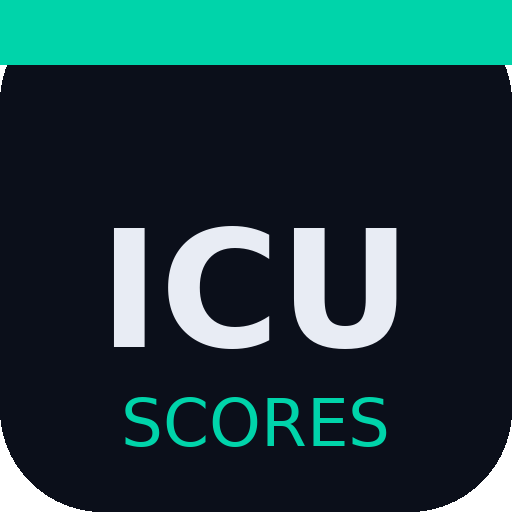
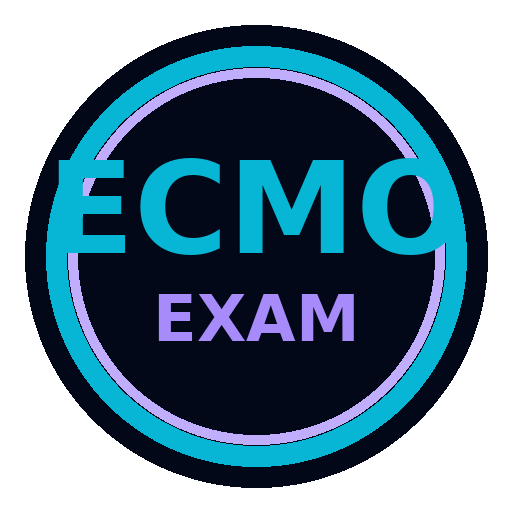
Add files via upload

diff --git a/index.html b/index.html
@@ -777,5 +777,39 @@ function resetProgress(){if(confirm('Reset all progress data? This cannot be und
 document.getElementById('tab-exam').style.display='block';
 document.getElementById('tab-progress').style.display='none';
 </script>
+
+<script>
+// Service Worker registration
+if ('serviceWorker' in navigator) {
+  window.addEventListener('load', () => {
+    navigator.serviceWorker.register('./sw.js');
+  });
+}
+
+// Install button
+let deferredPrompt = null;
+window.addEventListener('beforeinstallprompt', (e) => {
+  e.preventDefault();
+  deferredPrompt = e;
+  const btn = document.getElementById('btn-install');
+  if (btn) btn.style.display = 'block';
+});
+function installApp() {
+  if (deferredPrompt) {
+    deferredPrompt.prompt();
+    deferredPrompt.userChoice.then(() => {
+      deferredPrompt = null;
+      const btn = document.getElementById('btn-install');
+      if (btn) btn.style.display = 'none';
+    });
+  } else {
+    alert('iPhone/iPad: tap Share → Add to Home Screen\nAndroid: tap Menu ⋮ → Add to Home Screen');
+  }
+}
+window.addEventListener('appinstalled', () => {
+  const btn = document.getElementById('btn-install');
+  if (btn) btn.style.display = 'none';
+});
+</script>
 </body>
 </html>

diff --git a/sw.js b/sw.js
@@ -1,0 +1,12 @@
+const CACHE = 'ecmo-exam-v1';
+self.addEventListener('install', e => {
+  e.waitUntil(caches.open(CACHE).then(c => c.addAll(['./index.html'])));
+  self.skipWaiting();
+});
+self.addEventListener('activate', e => {
+  e.waitUntil(caches.keys().then(keys => Promise.all(keys.filter(k => k !== CACHE).map(k => caches.delete(k)))));
+  self.clients.claim();
+});
+self.addEventListener('fetch', e => {
+  e.respondWith(caches.match(e.request).then(r => r || fetch(e.request)));
+});